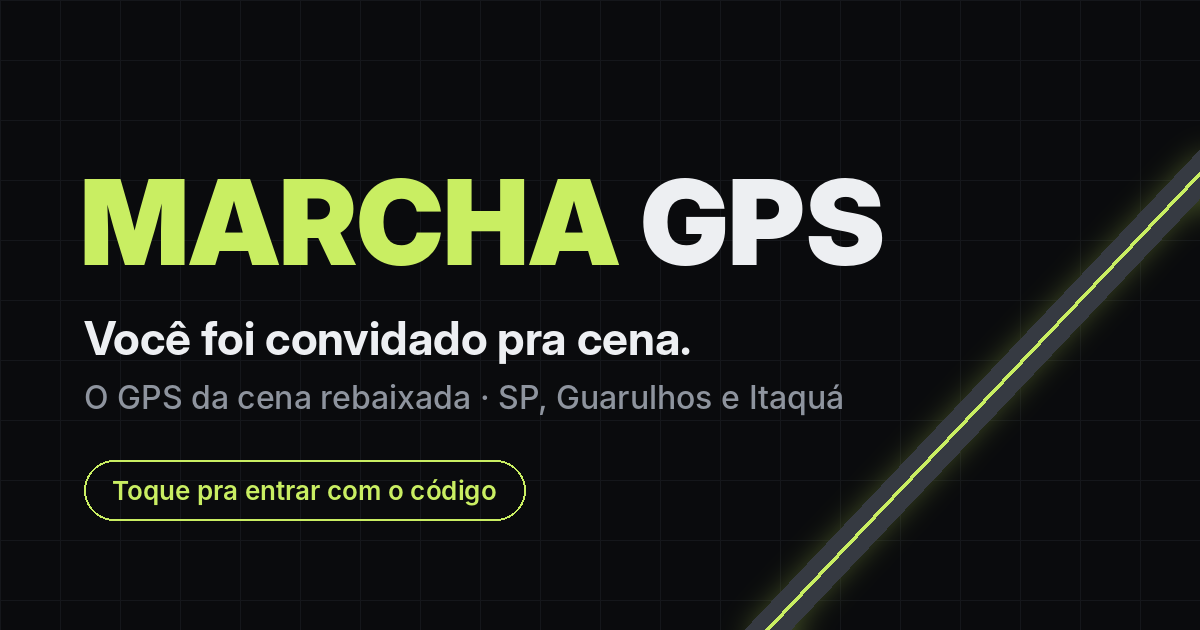
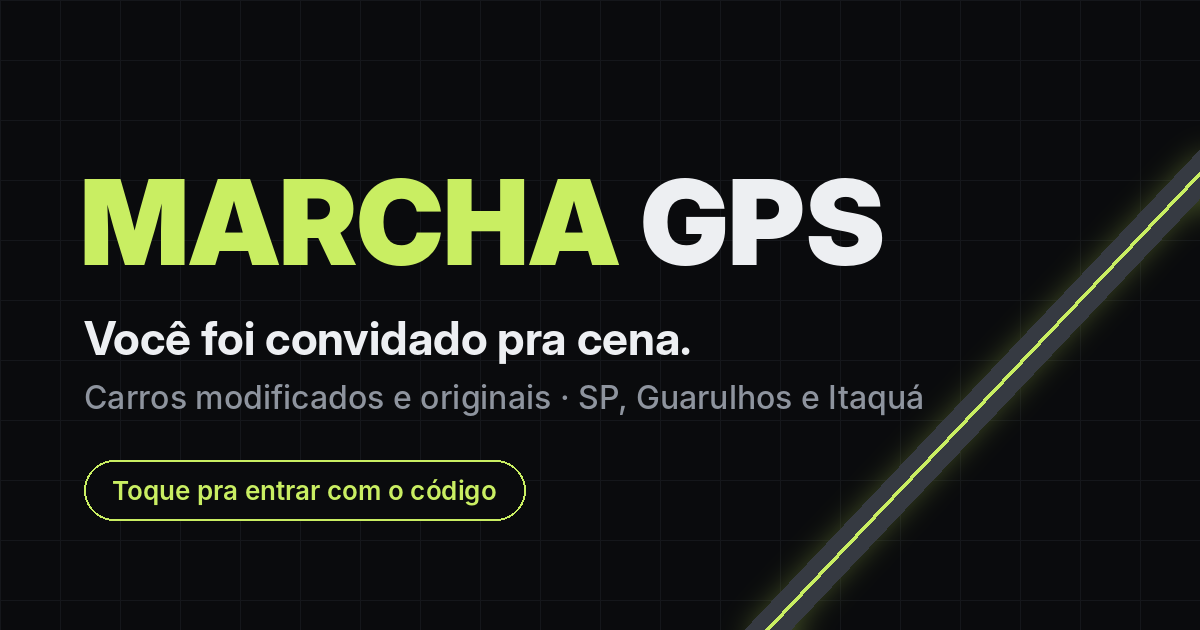
Slogan: Carros modificados e originais
Claude-Session: https://claude.ai/code/session_01Jf44QHdhxJ5mfH8CLP1oHK

Changed region(s): [[0.0925, 0.6032, 0.7708, 0.6635]]

diff --git a/workers/api/src/convitepage.ts b/workers/api/src/convitepage.ts
@@ -26,7 +26,7 @@ export function inviteTexts(p: InvitePreview | null): { title: string; descripti
   if (p.kind === 'fundador') {
     return {
       title: 'Marcha GPS · código de fundador',
-      description: 'Você recebeu um código de fundador: registre sua equipe no GPS da cena rebaixada.',
+      description: 'Você recebeu um código de fundador: registre sua equipe no Marcha GPS. Carros modificados e originais.',
       headline: 'Código de fundador pra registrar sua equipe',
     };
   }
@@ -34,7 +34,7 @@ export function inviteTexts(p: InvitePreview | null): { title: string; descripti
   const crew = p.crew_name ? ` da ${p.crew_name}` : '';
   return {
     title: `${who}${crew} te convidou pro Marcha GPS`,
-    description: 'O GPS da cena rebaixada: rota que desvia de lombada, avisos da galera, equipes e eventos. Entra com o código.',
+    description: 'Carros modificados e originais: rota que desvia de lombada, avisos da galera, equipes e eventos. Entra com o código.',
     headline: `${who}${crew} te convidou`,
   };
 }

diff --git a/app/app/(auth)/entrar.web.tsx b/app/app/(auth)/entrar.web.tsx
@@ -13,7 +13,7 @@ export default function Entrar() {
         <Text style={{ fontFamily: fonts.brand, fontSize: 36, color: colors.neon, letterSpacing: 1.5 }}>
           MARCHA <Text style={{ color: colors.text }}>GPS</Text>
         </Text>
-        <Text style={{ color: colors.textMuted, fontSize: 14 }}>O GPS da cena rebaixada. Aqui só entra quem é convidado.</Text>
+        <Text style={{ color: colors.textMuted, fontSize: 14 }}>Carros modificados e originais. Aqui só entra quem é convidado.</Text>
       </View>
       <View style={{ width: '100%', maxWidth: 420 }}><InviteBadge /></View>
       {/* Depois do login, o Gate do _layout leva pro convite ou pro mapa */}

diff --git a/app/app/(auth)/entrar.tsx b/app/app/(auth)/entrar.tsx
@@ -16,7 +16,7 @@ export default function Entrar() {
         <Text style={{ fontFamily: fonts.brand, fontSize: 36, color: colors.neon, letterSpacing: 1.5 }}>
           MARCHA <Text style={{ color: colors.text }}>GPS</Text>
         </Text>
-        <Text style={{ color: colors.textMuted, fontSize: 14 }}>O GPS da cena rebaixada. Aqui só entra quem é convidado.</Text>
+        <Text style={{ color: colors.textMuted, fontSize: 14 }}>Carros modificados e originais. Aqui só entra quem é convidado.</Text>
         <InviteBadge />
       </View>
       {/* Depois do login, o Gate do _layout leva pro convite ou pro mapa */}

diff --git a/app/src/lib/legal.ts b/app/src/lib/legal.ts
@@ -13,7 +13,7 @@ export const PRIVACY: LegalSection[] = [
   {
     title: 'Quem somos',
     items: [
-      'O Marcha GPS é um app da cena de carro rebaixado de São Paulo, Guarulhos e Itaquaquecetuba: mapa, rotas que avisam o que pega no seu carro, avisos da galera, equipes e feed.',
+      'O Marcha GPS é um app pra quem curte carro, modificado ou original, de São Paulo, Guarulhos e Itaquaquecetuba: mapa, rotas que avisam o que pega no seu carro, avisos da galera, equipes e feed.',
       'O responsável pelos seus dados é o Marcha GPS (o dono do app, chamado de Adm Master dentro do app).',
     ],
   },

diff --git a/app/public/index.html b/app/public/index.html
@@ -5,7 +5,7 @@
     <meta http-equiv="X-UA-Compatible" content="IE=edge" />
     <meta name="viewport" content="width=device-width, initial-scale=1, maximum-scale=1, viewport-fit=cover" />
     <title>Marcha GPS</title>
-    <meta name="description" content="O GPS da cena rebaixada. Só entra quem é convidado." />
+    <meta name="description" content="Carros modificados e originais. Só entra quem é convidado." />
     <meta name="theme-color" content="#070B12" />
     <link rel="manifest" href="/manifest.json" />
     <!-- já abre a conexão com o mapa, o banco e o login enquanto o app carrega -->

diff --git a/app/app/(auth)/inicio.tsx b/app/app/(auth)/inicio.tsx
@@ -50,7 +50,7 @@ export default function Inicio() {
         <Text style={{ fontFamily: fonts.brand, fontSize: 40, color: colors.neon, letterSpacing: 1.5 }}>
           MARCHA <Text style={{ color: colors.text }}>GPS</Text>
         </Text>
-        <Text style={{ color: colors.textMuted, fontSize: 14 }}>O GPS da cena rebaixada.</Text>
+        <Text style={{ color: colors.textMuted, fontSize: 14 }}>Carros modificados e originais.</Text>
       </View>
 
       <Text style={{ color: colors.text, fontFamily: fonts.display, fontWeight: '800', letterSpacing: -0.3, fontSize: 22 }}>Tem convite?</Text>

diff --git a/app/src/lib/tutorial.ts b/app/src/lib/tutorial.ts
@@ -19,7 +19,7 @@ export const TUTORIAL: TutorialStep[] = [
   {
     id: 'boas-vindas', tone: 'neon', where: 'Leva 1 minuto',
     title: 'Bem-vindo ao Marcha GPS',
-    text: 'O GPS da cena rebaixada: rota que conhece o seu carro, avisos de lombada e valeta, e a sua equipe no mapa.',
+    text: 'O GPS dos carros modificados e originais: rota que conhece o seu carro, avisos de lombada e valeta, e a sua equipe no mapa.',
     icon: 'M12 3a7 7 0 0 0-7 7c0 5 7 11 7 11s7-6 7-11a7 7 0 0 0-7-7Z M12 7.5a2.5 2.5 0 1 0 0 5 2.5 2.5 0 0 0 0-5Z',
   },
   {

diff --git a/docs/decisoes.md b/docs/decisoes.md
@@ -3,7 +3,7 @@
 Protótipo das telas: https://claude.ai/artifact/UYsUewuuw3KkM5jdFJ7oj2
 
 ## Conceito
-GPS com cara de videogame para a cena de carro rebaixado. Área de lançamento: **São Paulo, Guarulhos e Itaquaquecetuba**.
+GPS com cara de videogame pra quem curte carro. Slogan: **"Carros modificados e originais"** (não usar "cena rebaixada"/"carros rebaixados" como slogan). Área de lançamento: **São Paulo, Guarulhos e Itaquaquecetuba**.
 
 ## Acesso e confiança
 - Entrada só por **convite**; quem convida é o padrinho e responde pelo convidado.

diff --git a/README.md b/README.md
@@ -1,6 +1,6 @@
 # Marcha GPS
 
-GPS com cara de videogame para a cena de carro rebaixado. Começa em **São Paulo, Guarulhos e Itaquaquecetuba**.
+GPS com cara de videogame pra quem curte carro: **carros modificados e originais**. Começa em **São Paulo, Guarulhos e Itaquaquecetuba**.
 
 - Entrada só por convite, com verificação dos membros pela própria equipe.
 - Cada usuário monta o seu carro (por fotos + garagem 3D) e é ele que aparece no mapa.
